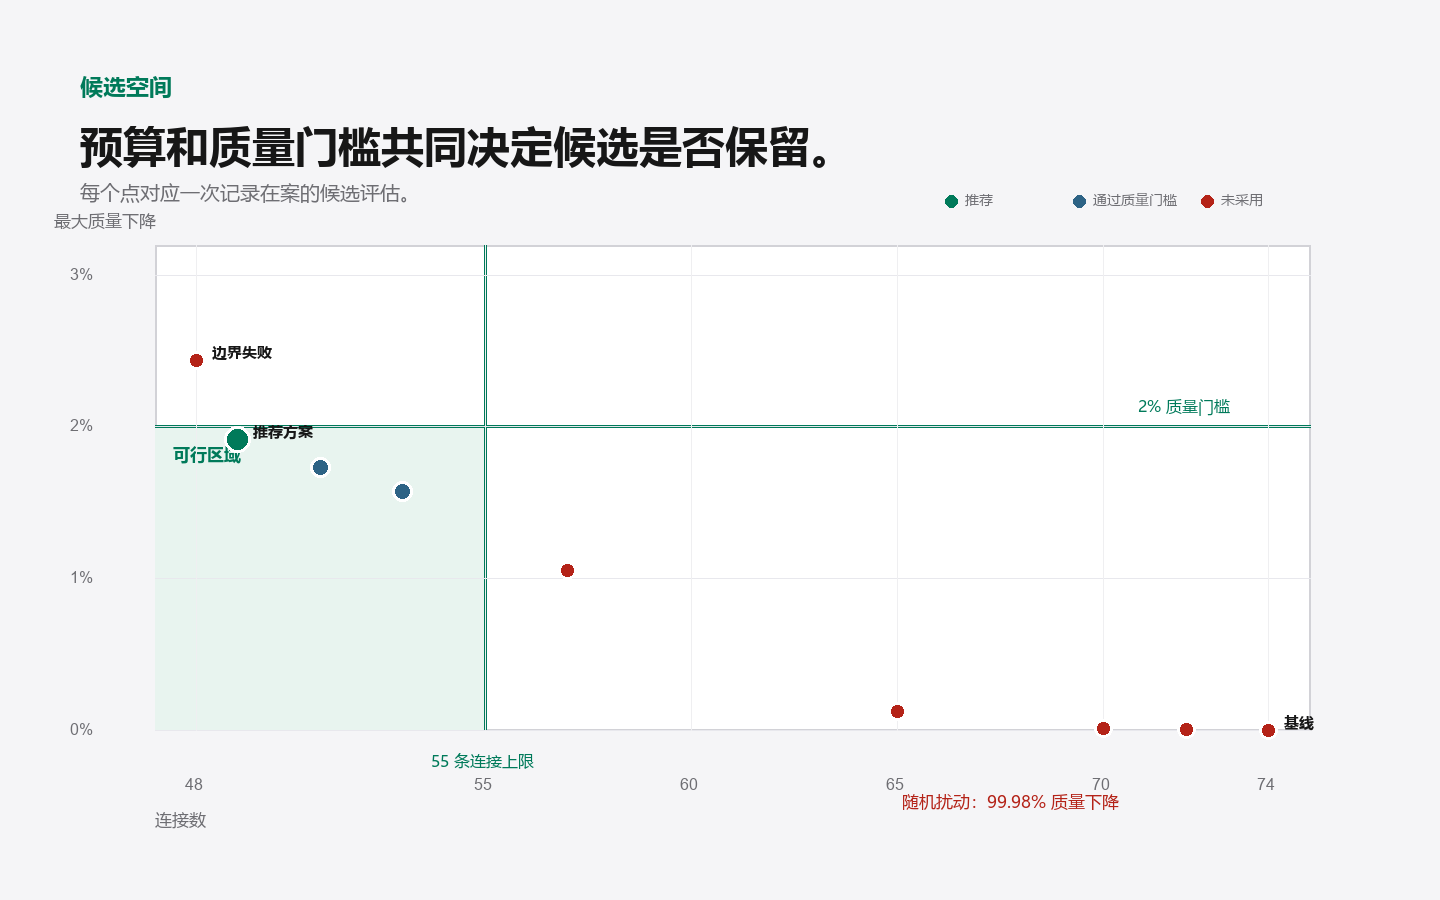
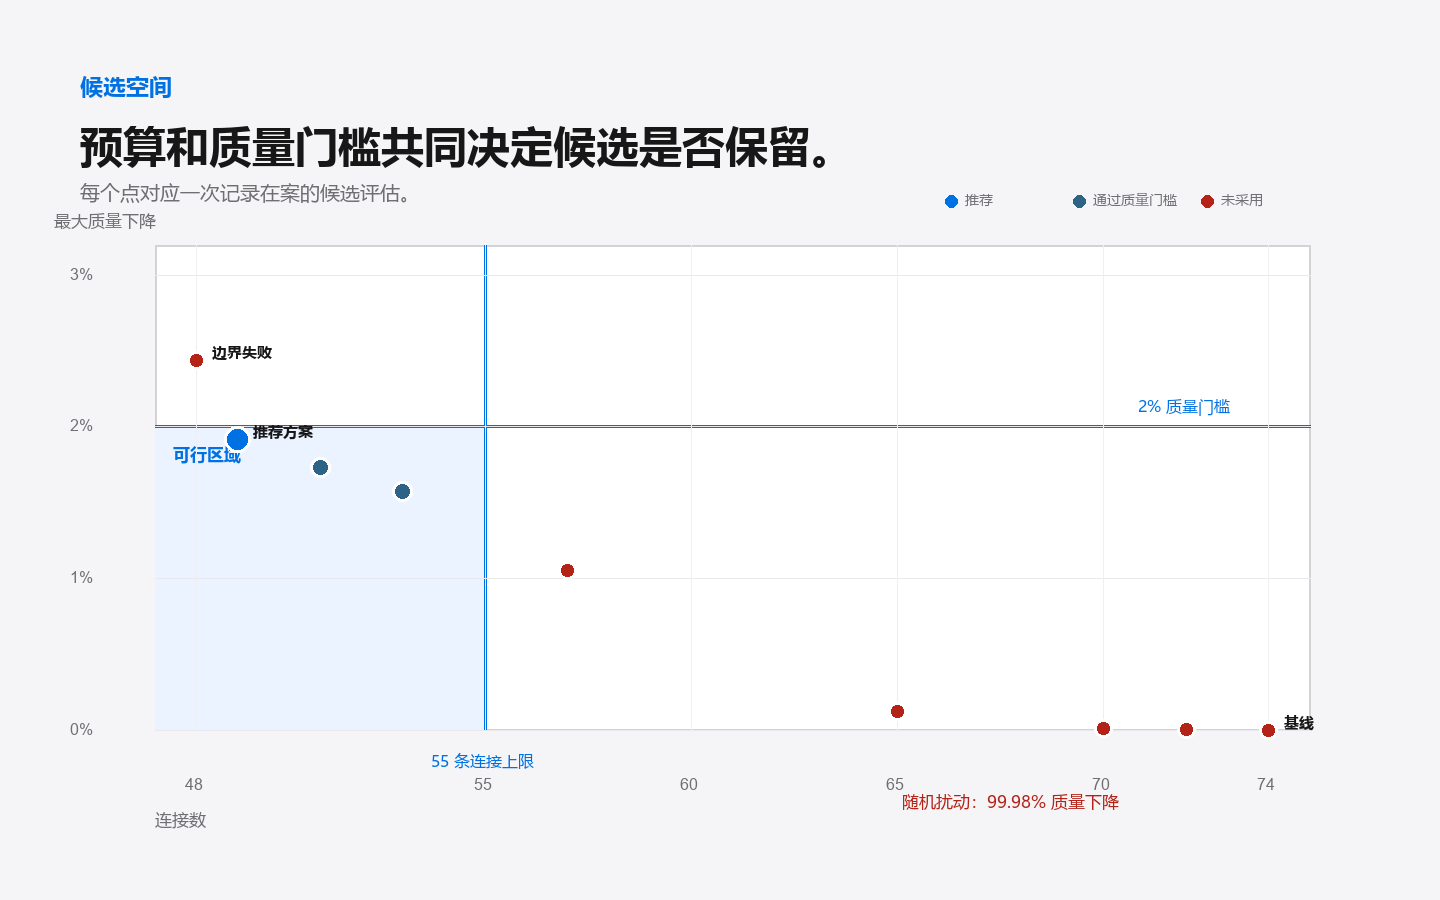
Polish typography palette and UTF-8 preview

diff --git a/scripts/render_demo_visual.py b/scripts/render_demo_visual.py
@@ -32,7 +32,7 @@ def rounded_box(draw: ImageDraw.ImageDraw, xy: tuple[int, int, int, int], fill: 
 def render_campaign(snapshot: dict) -> None:
     image = Image.new("RGB", (WIDTH, HEIGHT), "#f5f5f7")
     draw = ImageDraw.Draw(image)
-    ink, muted, line, forge = "#171717", "#6e6e73", "#d2d2d7", "#007a5a"
+    ink, muted, line, forge = "#171717", "#6e6e73", "#d2d2d7", "#0071e3"
 
     draw.text((80, 72), "ARENAFORGE STUDY", font=font(24, True), fill=forge)
     draw.text((80, 118), "Research input becomes an executable campaign.", font=font(44, True), fill=ink)
@@ -50,7 +50,7 @@ def render_campaign(snapshot: dict) -> None:
     draw.line((118, 548, 370, 548), fill=line, width=2)
     draw.text((118, 577), "Project or simulator", font=font(18), fill=muted)
 
-    draw.text((595, 292), "EXPLORATION", font=font(19, True), fill="#6fd1b4")
+    draw.text((595, 292), "EXPLORATION", font=font(19, True), fill="#8abcf5")
     draw.text((595, 338), f"{snapshot['candidate_count']} candidates compared", font=font(30, True), fill="#ffffff")
     draw.text((595, 385), f"{snapshot['screened_edge_count']} marginal tests", font=font(22), fill="#c9c9cd")
     draw.text((595, 420), f"{snapshot['accepted_action_count']} accepted actions", font=font(22), fill="#c9c9cd")
@@ -61,8 +61,8 @@ def render_campaign(snapshot: dict) -> None:
         angle = (math.tau * index / dot_count) - math.pi / 2
         x = center[0] + int(math.cos(angle) * 118)
         y = center[1] + int(math.sin(angle) * 90)
-        draw.line((center[0], center[1], x, y), fill="#4d8f7b", width=2)
-        draw.ellipse((x - 11, y - 11, x + 11, y + 11), fill="#6fd1b4")
+        draw.line((center[0], center[1], x, y), fill="#7aaef5", width=2)
+        draw.ellipse((x - 11, y - 11, x + 11, y + 11), fill="#8abcf5")
     draw.ellipse((center[0] - 29, center[1] - 29, center[0] + 29, center[1] + 29), fill="#ffffff")
     draw.text((center[0] - 15, center[1] - 14), "49", font=font(22, True), fill=ink)
 
@@ -95,7 +95,7 @@ def render_quantum_graph(snapshot: dict) -> None:
         5: (1040, 610),
     }
     labels = {0: "S0", 1: "S1", 2: "S2", 3: "S3", 4: "S4", 5: "S5"}
-    draw.text((80, 70), "QUANTUM OPTICS VALIDATION CASE", font=font(23, True), fill="#6fd1b4")
+    draw.text((80, 70), "QUANTUM OPTICS VALIDATION CASE", font=font(23, True), fill="#8abcf5")
     draw.text((80, 116), "Candidate topology after guided pruning", font=font(44, True), fill="#ffffff")
     draw.text((80, 178), "Each visible connection is derived from the recommended artifact.", font=font(21), fill="#b7c0bd")
 
@@ -104,7 +104,7 @@ def render_quantum_graph(snapshot: dict) -> None:
         x1, y1 = positions[start]
         x2, y2 = positions[end]
         magnitude = max(1, int(abs(weight) * 5))
-        color = "#5ed2b0" if weight > 0 else "#7598cf"
+        color = "#8abcf5" if weight > 0 else "#5b7cad"
         draw.line((x1, y1, x2, y2), fill=color, width=magnitude)
 
     for node, (x, y) in positions.items():
@@ -120,7 +120,7 @@ def render_quantum_graph(snapshot: dict) -> None:
 def render_candidate_landscape(snapshot: dict) -> None:
     image = Image.new("RGB", (WIDTH, HEIGHT), "#f5f5f7")
     draw = ImageDraw.Draw(image)
-    ink, muted, line, forge, red = "#171717", "#6e6e73", "#d2d2d7", "#007a5a", "#b42318"
+    ink, muted, line, forge, red = "#171717", "#6e6e73", "#d2d2d7", "#0071e3", "#b42318"
     left, top, right, bottom = 155, 245, 1310, 730
     min_edges, max_edges = 47, 75
     max_drop = 0.032
@@ -147,7 +147,7 @@ def render_candidate_landscape(snapshot: dict) -> None:
 
     draw.rectangle((left, top, right, bottom), fill="#ffffff", outline=line, width=2)
     budget_x, gate_y = x(55), y(0.02)
-    draw.rectangle((left, gate_y, budget_x, bottom), fill="#e8f4ef")
+    draw.rectangle((left, gate_y, budget_x, bottom), fill="#eaf3ff")
     draw.line((budget_x, top, budget_x, bottom), fill=forge, width=3)
     draw.line((left, gate_y, right, gate_y), fill=forge, width=3)
     draw.text((left + 18, gate_y + 16), "可行区域", font=chinese_font(17, True), fill=forge)

diff --git a/scripts/serve_demo.py b/scripts/serve_demo.py
@@ -1,0 +1,46 @@
+"""Serve the built ArenaForge site with explicit UTF-8 content types."""
+
+from __future__ import annotations
+
+import argparse
+from functools import partial
+from http.server import SimpleHTTPRequestHandler, ThreadingHTTPServer
+from pathlib import Path
+
+
+class UTF8RequestHandler(SimpleHTTPRequestHandler):
+    """Add an explicit charset for text assets in local previews."""
+
+    def guess_type(self, path: str) -> str:
+        suffix = Path(path).suffix.lower()
+        types = {
+            ".css": "text/css; charset=utf-8",
+            ".html": "text/html; charset=utf-8",
+            ".js": "text/javascript; charset=utf-8",
+            ".json": "application/json; charset=utf-8",
+            ".svg": "image/svg+xml; charset=utf-8",
+        }
+        return types.get(suffix, super().guess_type(path))
+
+
+def main() -> None:
+    parser = argparse.ArgumentParser(description="Serve the built ArenaForge site.")
+    parser.add_argument("--directory", type=Path, default=Path("web/dist"))
+    parser.add_argument("--host", default="127.0.0.1")
+    parser.add_argument("--port", type=int, default=8773)
+    args = parser.parse_args()
+
+    directory = args.directory.resolve()
+    handler = partial(UTF8RequestHandler, directory=str(directory))
+    server = ThreadingHTTPServer((args.host, args.port), handler)
+    print(f"Serving {directory} at http://{args.host}:{args.port}/")
+    try:
+        server.serve_forever()
+    except KeyboardInterrupt:
+        pass
+    finally:
+        server.server_close()
+
+
+if __name__ == "__main__":
+    main()
